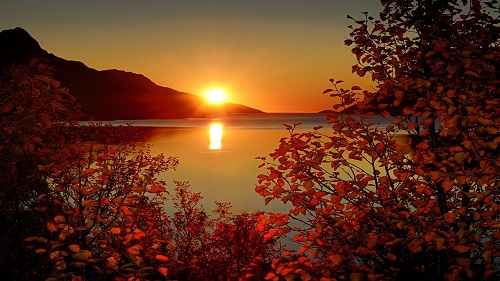
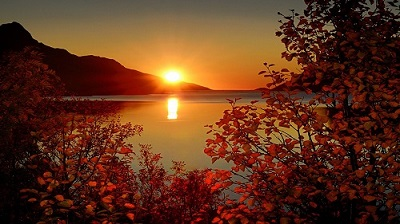
changes to background img styling

diff --git a/css/style.css b/css/style.css
@@ -93,11 +93,7 @@ li {
 }
 
 #autsunset {
-  background: url("../img/autsunset.jpg") no-repeat center center fixed; 
-  -webkit-background-size: cover;
-  -moz-background-size: cover;
-  -o-background-size: cover;
-  background-size: cover;
+  background: url("../img/autsunset.jpg");
 }
 
 #coldmorn {
